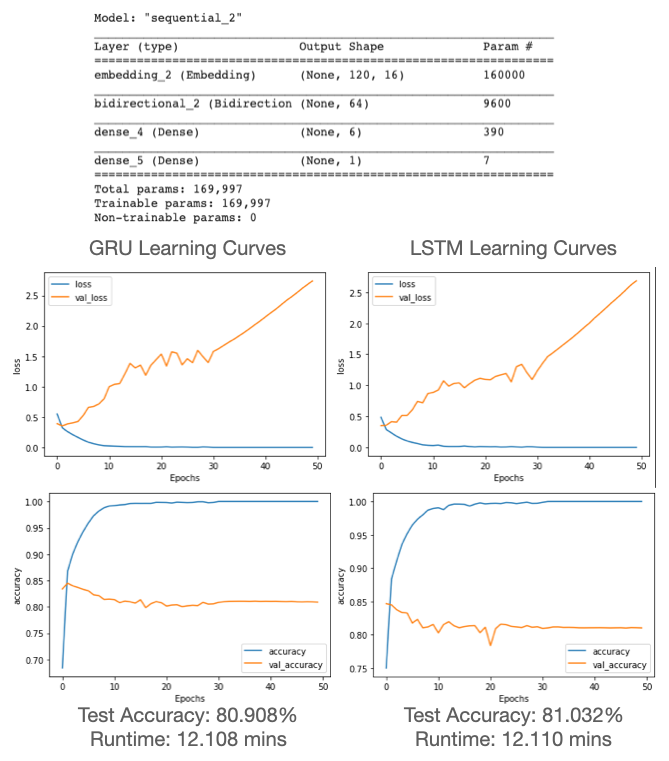
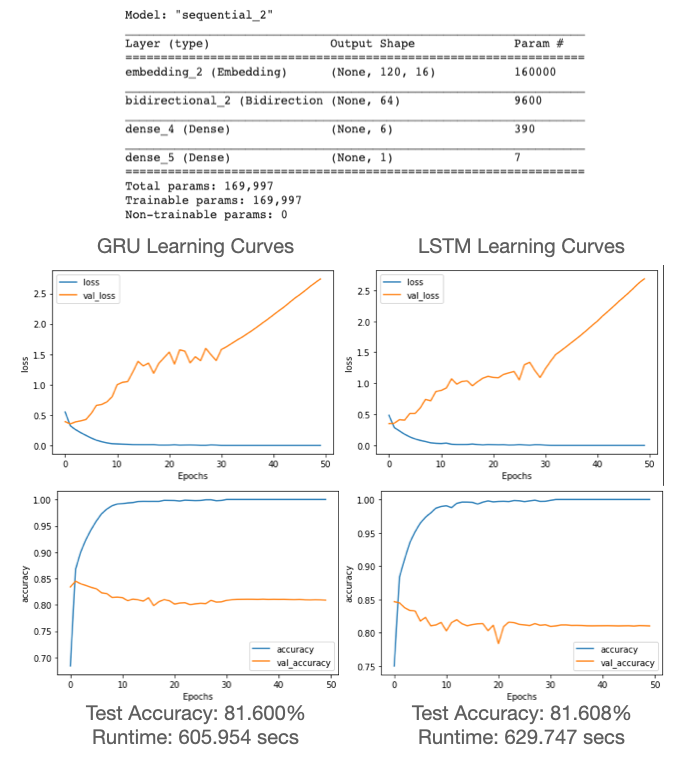
updated nlp post

diff --git a/_posts/2021-5-18-NLP-Projects.md b/_posts/2021-5-18-NLP-Projects.md
@@ -3,7 +3,7 @@ layout: post
 title: TensorFlow Natural Language Processing (NLP) Project (4-min read)
 comments: true
 ---
-By now you may be pretty familiar with my story so I will skip ahead to the good stuff, with just a brief refresher that I am now preparing for the <a href="https://www.tensorflow.org/certificate" target="_blank">TensorFlow Developer Certificate</a> and really falling in love with deep learning.  It has many useful applications, and one in particular is Natural Language Processing. When you combine computer vision, NLP and voice recognition, artificial intelligence is really starting to feel like the sci-fi movies that inspired us as kids.
+By now you may be pretty familiar with my story so I will skip ahead to the good stuff, with just a brief refresher that I am now preparing for the <a href="https://www.tensorflow.org/certificate" target="_blank">TensorFlow Developer Certificate</a> and really falling in love with deep learning.  It has many useful applications, and one in particular is Natural Language Processing. When you combine computer vision, NLP and voice recognition, artificial intelligence is really starting to feel like the sci-fi movies that inspired us as kids.  I also have a video overview on my YouTube channel <a href="https://youtu.be/v4C6G5TCfno" target="_blank">Part 1 (introduction)</a>, <a href="https://youtu.be/Ub_DpG9lZoQ" target="_blank">Part 2 (optimization, predictions, and ocr)</a>.
 
 This project explored the fundamentals of NLP using the great IMDB reviews dataset.  It is another very popular dataset in machine learning research and contains 50,000 reviews labeled as positive or negative to be used for training and testing as well as an additional 50,000 unlabeled reviews to be used for predictions if desired (I did not use them at this time).  Below is a simple graphic outlying the basic NLP workflow.
 
@@ -25,11 +25,11 @@ Bear with me on the acronyms for a moment.  To begin, we will use a Gated Recurr
     <img src="../images/lstm_gru.jpg" id="lstm_gru" alt="LSTM and GRU Model Summary">
 </p>
 
-Okay let's take a look and compare these two basic models for our baseline shown above.  If you just looked at the accuracy 81% would seem pretty decent, but the diverging loss function and clear overfitting show room for improvement.  Comparing the two models the LSTM was slightly more accurate and slightly less efficient (and both learning curves are pretty ugly). In this case, the 0.124% increase in accruacy came at the cost of an additional 0.122 seconds. On a relatively small dataset such as this, and with a very simple model like we have built these differences are effectively negligible but the impact is excacerbated on larger, more complex problems.
+Okay let's take a look and compare these two basic models for our baseline shown above.  If you just looked at the accuracy ~81% would seem pretty decent, but the diverging loss function and clear overfitting show room for improvement.  It is also always important to consider how our model performance compares to that of an expert level human.  In this case, someone very familiar with movie reviews would likely achieve a much higher accuracy than 81%, so we know we can do a lot better.  Comparing the two models, the more streamlined GRU model was slightly more efficient with the shorter runtime. Interestingly, the accuracy performance is almost the same.  This is not always the case, but with our very simple model and relatively straightforward input sequences the GRU was quite effective. 
 
-This type of trade off between performance and efficiency is common. There is no "silver bullet" to answer the question of which model is "best" for the situation. It always depends on the business case. There are instances where efficiency will be optimized and you simply need to satisfy a given accuracy threshold, and vice versa.
+With much larger, more complex problems it is very common that you will need to make a decision between performance and efficiency. There is no "silver bullet" to answer the question of which model is "best" for the situation. It always depends on the business case. There are instances where efficiency will be optimized and you simply need to satisfy a given accuracy threshold, and vice versa. Certain architectures will apply more favorably to specific situations but not others.
 
-Although the LSTM model would be preferable here, before we get too far into the weeds let's step back and think about optimization as a concept in terms of NLP.
+Although the GRU model would be preferable between the two, before we get too far into the weeds let's step back and think about optimization as a concept in terms of NLP.
 
 More specifically, I like to try to use a **data centric** approach to optimization whenever possible compared to a **model centric** approach.
 
@@ -71,9 +71,9 @@ Now one very cool convergence of deep learning technologies is Optical Character
     <img src="../images/macgruber.jpg" id="macgruber" alt="MacGruber Poster">
 </p>
 
-This has been really fun.  We started by just playing around with different deep learning networks best suited to handle the nuance of the English language and really took off from there, bringing in **transfer learning with BERT and ktrain** as well as **optical character recognition with pytesseract**.  Improved a baseline model from 81% to 95% and built a fun interactive function to cap it off.  All told the notebook takes about 6 hours to run, once again not bad for a days work!
+This has been really fun.  We started by just playing around with different deep learning networks best suited to handle the nuance of the English language and really took off from there, bringing in **transfer learning with BERT and ktrain** as well as **optical character recognition with pytesseract**.  Improved a baseline model from 81% to 95% and built a fun interactive function to cap it off.  All told the notebook takes about 5 hours to run, once again not bad for a (half) days work!
 
-If you would like to dive into the code please check out the GitHub Repo (link coming)
+If you would like to dive into the code please check out the <a href="https://github.com/polzinben/TensorFlow_NLP" target="_blank">GitHub repo.</a>
 
 Resources:
 - https://datascience.stackexchange.com/questions/14581/when-to-use-gru-over-lstm
